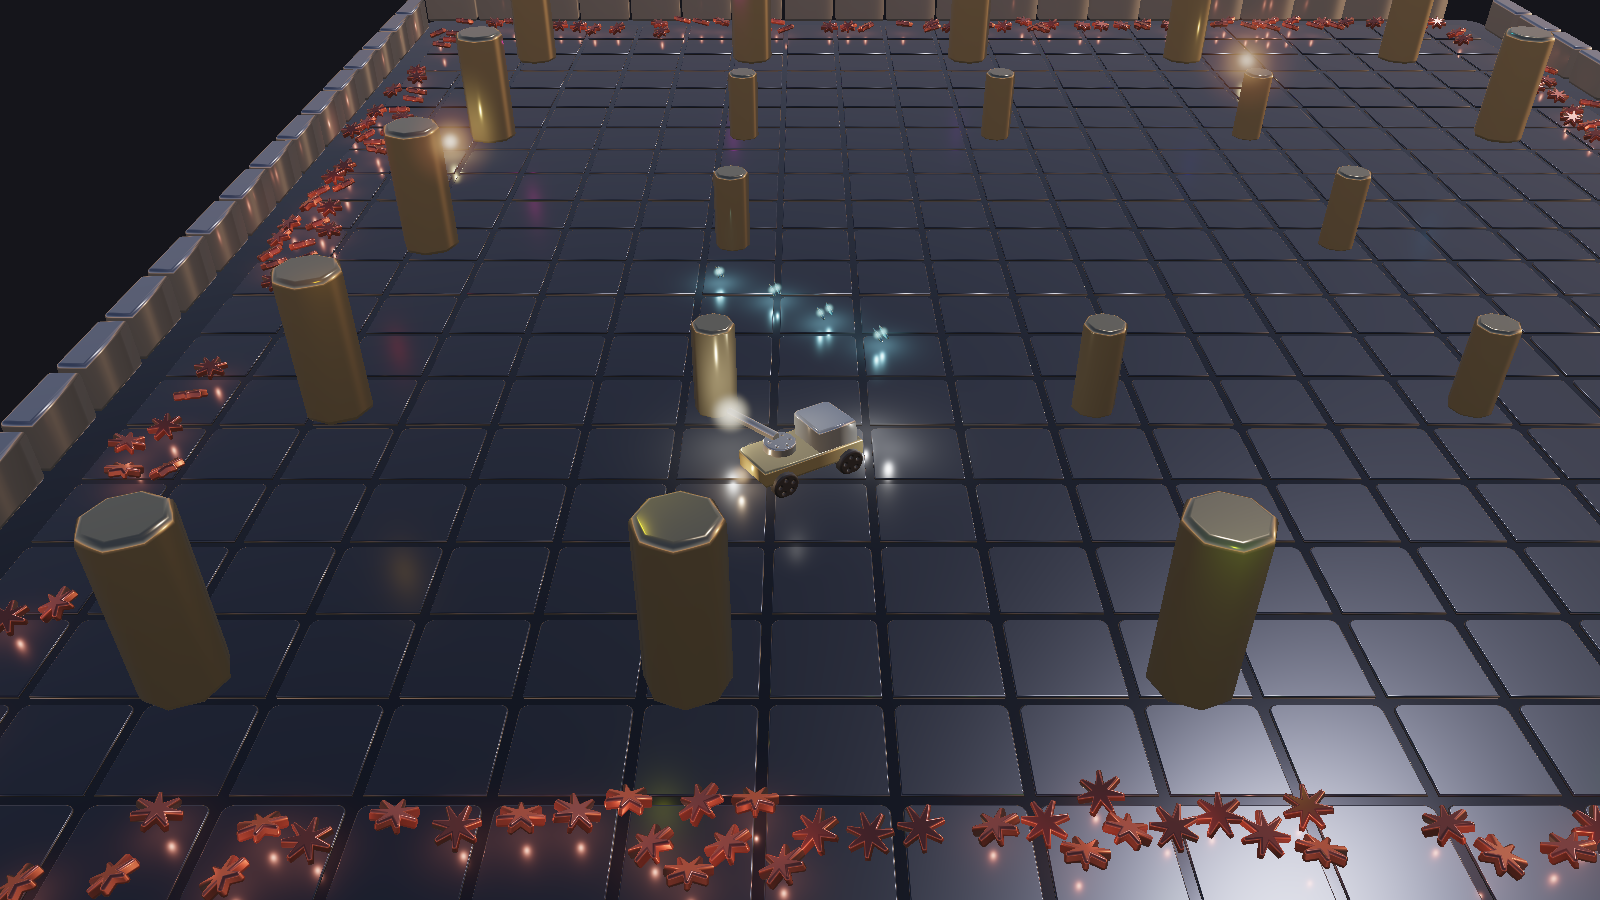
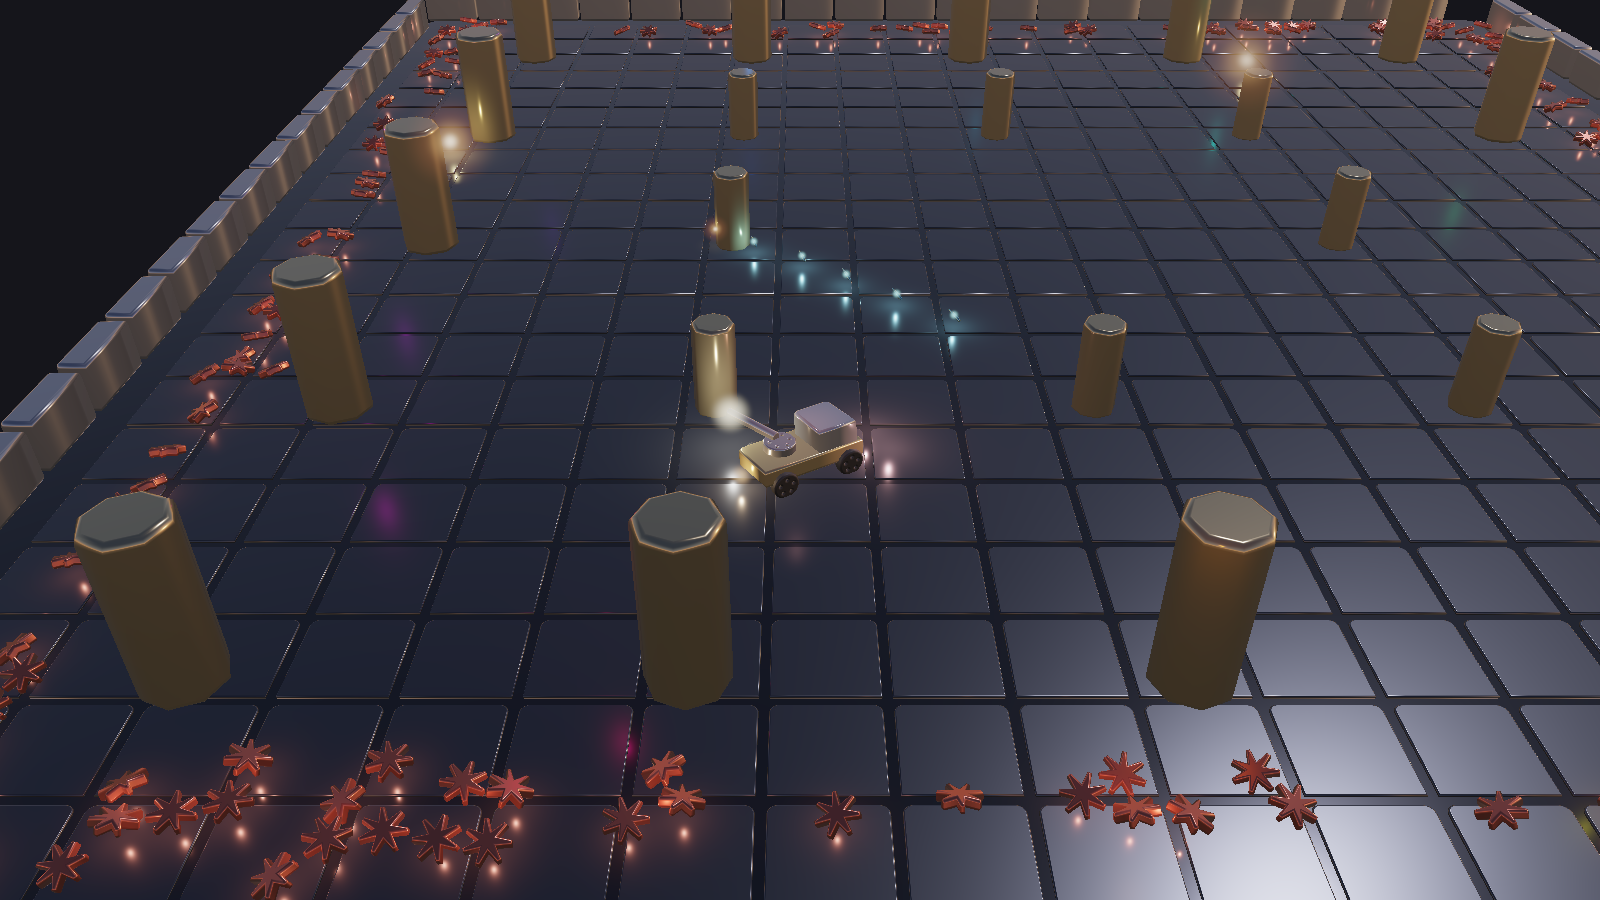
One round at a time out of the one barrel
The cannon fired a pair of rounds either side of the muzzle, which was left
over from the ship — it had two guns. The truck has one barrel drawn on it,
so a double stream never matched the model. Now it is one round from the
muzzle centre, with the scatter tightened from 0.05 to 0.03 radians since
there is no longer a pair to spread.

That halves the rate of fire, so I simulated three minutes of a competent
player — hold the middle, aim at the nearest, hold the trigger — to see
whether the arena floods. It does not: wave eight, 459 kills, 2.5 a second,
with the live count oscillating between 22 and 100 rather than climbing away.
The waves still get harder, which is the intention.

diff --git a/src/game.ts b/src/game.ts
@@ -271,21 +271,21 @@ export class Arena {
     }
   }
 
+  /**
+   * One round, out of the muzzle. There is one barrel on the truck, so a pair
+   * of shots either side of it never matched what was drawn.
+   */
   private fire() {
-    // both barrels, a little apart, so the muzzle flash has width
-    for (const side of [-1, 1]) {
-      if (this.bolts >= MAX_BOLTS) return;
-      const i = this.bolts++;
-      const off = this.aim + Math.PI / 2;
-      const spread = (Math.random() - 0.5) * 0.05;
-      this.bx[i] = this.muzzleX + Math.cos(off) * side * 13;
-      this.by[i] = this.muzzleY + Math.sin(off) * side * 13;
-      // the ship's own velocity carries into the shot, as it should when the
-      // ship has momentum: firing backwards while running away is slower
-      this.bvx[i] = Math.cos(this.aim + spread) * BOLT_SPEED + this.pvx;
-      this.bvy[i] = Math.sin(this.aim + spread) * BOLT_SPEED + this.pvy;
-      this.blife[i] = BOLT_LIFE;
-    }
+    if (this.bolts >= MAX_BOLTS) return;
+    const i = this.bolts++;
+    const spread = (Math.random() - 0.5) * 0.03;
+    this.bx[i] = this.muzzleX;
+    this.by[i] = this.muzzleY;
+    // the truck's own velocity carries into the shot, as it should when the
+    // truck has momentum: firing backwards while running away is slower
+    this.bvx[i] = Math.cos(this.aim + spread) * BOLT_SPEED + this.pvx;
+    this.bvy[i] = Math.sin(this.aim + spread) * BOLT_SPEED + this.pvy;
+    this.blife[i] = BOLT_LIFE;
   }
 
   private dropBolt(i: number) {
